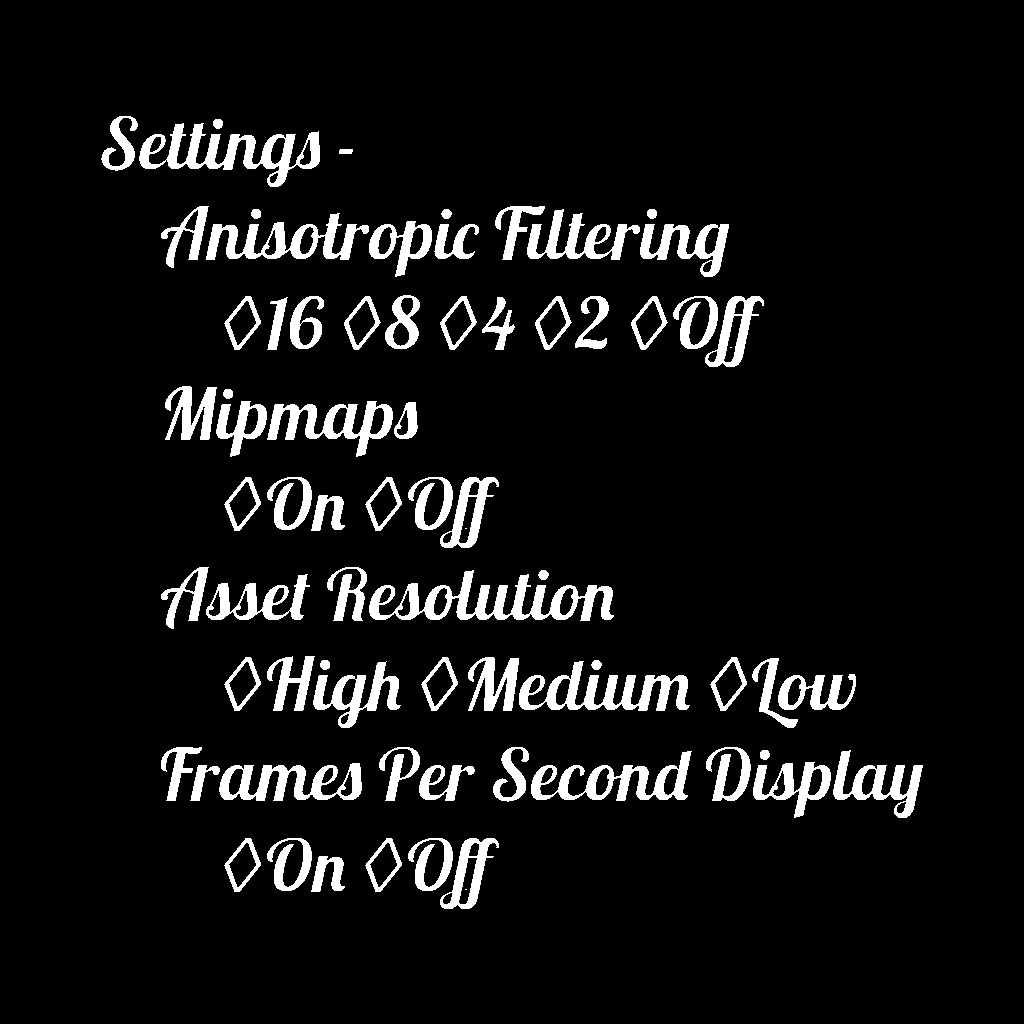
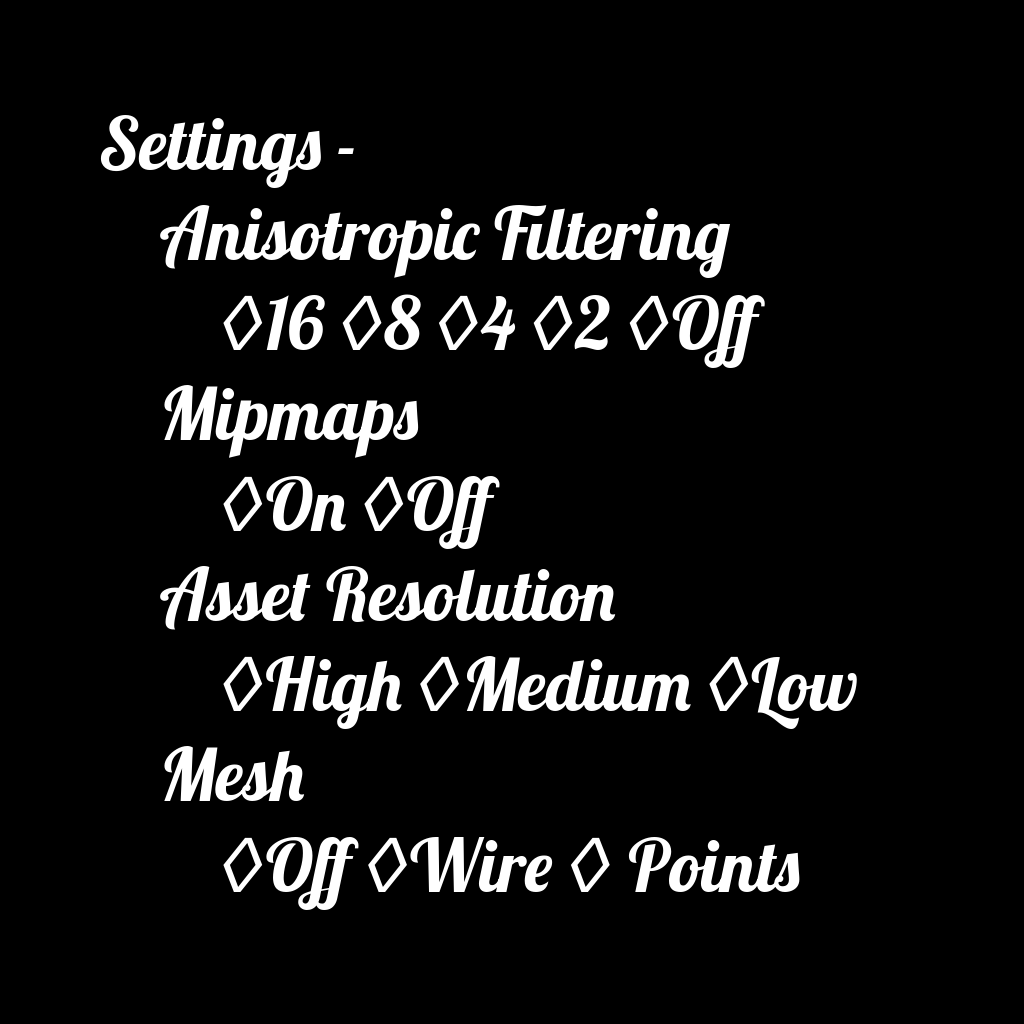
add water wireframe and point cloud display

diff --git a/src/world/ocean.rs b/src/world/ocean.rs
@@ -85,6 +85,108 @@ impl OceanBuffer {
 #[require(Transform, Visibility)]
 pub struct Ocean;
 
+use bevy::asset::RenderAssetUsages;
+use bevy::mesh::Indices;
+use bevy::mesh::PrimitiveTopology;
+
+/*
+// Works: Functionally equivalent, modifyable
+fn create_foo_mesh(x_units: f32, z_units: f32, subdivisions: u32) -> Mesh {
+    let grid_res = subdivisions + 2;
+    let total_vertices = (grid_res * grid_res) as usize;
+    let x_spacing = x_units / (grid_res as f32 - 1.0);
+    let z_spacing = z_units / (grid_res as f32 - 1.0);
+
+    let mut positions = Vec::with_capacity(total_vertices);
+    let mut indices = Vec::new();
+
+    // 1. Position mapping (foo = 144 vertices)
+    for i in 0..total_vertices as u32 {
+        let row = i / grid_res;
+        let col = i % grid_res;
+        let x = (col as f32 * x_spacing) - (x_units / 2.0);
+        let z = (row as f32 * z_spacing) - (z_units / 2.0);
+        positions.push([x, 0.0, z]);
+    }
+
+    // 2. Index mapping (Standard CCW winding)
+    for row in 0..grid_res - 1 {
+        for col in 0..grid_res - 1 {
+            let i = row * grid_res + col;
+            indices.extend_from_slice(&[i, i + grid_res, i + 1]);
+            indices.extend_from_slice(&[i + 1, i + grid_res, i + grid_res + 1]);
+        }
+    }
+
+    // 3. Bevy 0.18 Constructor
+    let mut mesh = Mesh::new(
+        PrimitiveTopology::TriangleList,
+        RenderAssetUsages::default() // Required for dynamic updates in 0.18
+    );
+
+    mesh.insert_attribute(Mesh::ATTRIBUTE_POSITION, positions);
+    mesh.insert_indices(Indices::U32(indices));
+    // Required for PBR and Solari lighting in 0.18
+    mesh.insert_attribute(Mesh::ATTRIBUTE_NORMAL, vec![[0.0, 1.0, 0.0]; total_vertices]);
+
+    mesh
+}
+*/
+
+/*
+// Works: proves we can accept the parameters and return the right value.
+fn create_foo_mesh(x_units: f32, z_units: f32, subdivisions: u32) -> Mesh {
+    Plane3d::default().mesh().size(x_units, z_units).subdivisions(subdivisions).build()
+}
+*/
+
+pub fn generate_wireframe_from_mesh(source_mesh: &Mesh) -> Mesh {
+    // 1. Create a new mesh using LineList topology
+    let mut wireframe_mesh = Mesh::new(PrimitiveTopology::LineList, RenderAssetUsages::default());
+
+    // 2. Copy the exact same vertex positions (No new generation needed)
+    if let Some(positions) = source_mesh.attribute(Mesh::ATTRIBUTE_POSITION) {
+        wireframe_mesh.insert_attribute(Mesh::ATTRIBUTE_POSITION, positions.clone());
+    }
+
+    // 3. Convert Triangle Triplets [0, 1, 2] into Line Pairs [0, 1, 1, 2, 2, 0]
+    if let Some(indices) = source_mesh.indices() {
+        let mut line_indices = Vec::new();
+
+        // This iterator works for both u16 and u32 indices
+        let mut iter = indices.iter();
+        while let (Some(a), Some(b), Some(c)) = (iter.next(), iter.next(), iter.next()) {
+            // Triangle edges: A-B, B-C, C-A
+            line_indices
+                .extend_from_slice(&[a as u32, b as u32, b as u32, c as u32, c as u32, a as u32]);
+        }
+
+        wireframe_mesh.insert_indices(Indices::U32(line_indices));
+    }
+
+    wireframe_mesh
+}
+
+pub fn generate_points_from_mesh(source_mesh: &Mesh) -> Mesh {
+    let mut point_mesh = Mesh::new(
+        PrimitiveTopology::PointList, // Tell the GPU: "One vertex = One point"
+        RenderAssetUsages::default(),
+    );
+
+    // Copy the positions exactly like we did for lines
+    if let Some(positions) = source_mesh.attribute(Mesh::ATTRIBUTE_POSITION) {
+        point_mesh.insert_attribute(Mesh::ATTRIBUTE_POSITION, positions.clone());
+    }
+
+    // Point lists don't technically need indices, but keeping them
+    // ensures the GPU knows which vertices to draw.
+    if let Some(indices) = source_mesh.indices() {
+        point_mesh.insert_indices(indices.clone());
+    }
+
+    point_mesh
+}
+
 pub fn spawn_ocean(
     commands: &mut Commands,
     meshes: &mut ResMut<Assets<Mesh>>,
@@ -95,6 +197,10 @@ pub fn spawn_ocean(
     commands.insert_resource(OceanBuffer::new(grid_size));
 
     let ocean_mesh = Plane3d::default().mesh().size(23.0, 23.0).subdivisions(10);
+    // let ocean_mesh = create_foo_mesh(23., 23., 10);
+
+    let wire_mesh = generate_wireframe_from_mesh(&ocean_mesh);
+    let point_mesh = generate_points_from_mesh(&ocean_mesh);
 
     let ocean_id = commands
         .spawn((
@@ -111,6 +217,34 @@ pub fn spawn_ocean(
         ))
         .id();
     et.ocean = Some(ocean_id);
+
+    let ocean_wire_id = commands
+        .spawn((
+            Ocean,
+            Mesh3d(meshes.add(wire_mesh)),
+            MeshMaterial3d(materials.add(StandardMaterial {
+                base_color: Color::WHITE,
+                unlit: false, // Makes it bright regardless of lighting
+                ..default()
+            })),
+            Visibility::Hidden,
+        ))
+        .id();
+    et.ocean_wire = Some(ocean_wire_id);
+
+    let ocean_point_id = commands
+        .spawn((
+            Ocean,
+            Mesh3d(meshes.add(point_mesh)),
+            MeshMaterial3d(materials.add(StandardMaterial {
+                base_color: Color::WHITE,
+                unlit: true, // Makes it bright regardless of lighting
+                ..default()
+            })),
+            Visibility::Hidden,
+        ))
+        .id();
+    et.ocean_point = Some(ocean_point_id);
 
     commands.entity(ocean_id).observe(
         |mut drag: On<Pointer<Drag>>, et: Res<EntityTable>, mut query: Query<&mut Transform>| {

diff --git a/src/ui.rs b/src/ui.rs
@@ -112,11 +112,11 @@ pub fn spawn_settings_ui(
             [AResHi, AResMed, AResLow]
         ),
         row!(
-            FPSDisplay,
+            Mesh,
             410.,
             455.,
-            [107., 177., 255.],
-            [FPSDispOn, FPSDispOff]
+            [107., 179., 280., 433.],
+            [MeshOff, MeshWire, MeshPoint]
         ),
     ];
 
@@ -124,7 +124,7 @@ pub fn spawn_settings_ui(
         Anisotropic,
         Mipmaps,
         AssetResolution,
-        FPSDisplay,
+        Mesh,
     }
     enum SetItem {
         An16,
@@ -137,8 +137,9 @@ pub fn spawn_settings_ui(
         AResHi,
         AResMed,
         AResLow,
-        FPSDispOn,
-        FPSDispOff,
+        MeshOff,
+        MeshWire,
+        MeshPoint,
     }
     struct SettingsCategory {
         cat: SetCatType,
@@ -196,6 +197,7 @@ pub fn spawn_settings_ui(
         move |mut click: On<Pointer<Click>>,
               et: Res<EntityTable>,
               stitched: Option<Res<StitchedRoundel>>,
+              mut commands: Commands,
               mut query: Query<(&mut Settings, &GlobalTransform)>,
               mut diamond_query: Query<&mut Transform, Without<Settings>>,
               mut images: ResMut<Assets<Image>>,
@@ -344,10 +346,37 @@ pub fn spawn_settings_ui(
                             }
                         }
                     }
-                    SetCatType::FPSDisplay => {
+                    SetCatType::Mesh => {
                         if let Ok(mut transform) = diamond_query.get_mut(et.set_fps.unwrap()) {
                             transform.translation =
                                 Vec3::new(to_local(x_start + 14.0), 0.01, to_local(y_start + 22.0));
+                        }
+                        match item {
+                            SetItem::MeshOff => {
+                                commands
+                                    .entity(et.ocean_wire.expect("No entity!"))
+                                    .insert(Visibility::Hidden);
+                                commands
+                                    .entity(et.ocean_point.expect("No entity!"))
+                                    .insert(Visibility::Hidden);
+                            }
+                            SetItem::MeshWire => {
+                                commands
+                                    .entity(et.ocean_wire.expect("No entity!"))
+                                    .insert(Visibility::Visible);
+                                commands
+                                    .entity(et.ocean_point.expect("No entity!"))
+                                    .insert(Visibility::Hidden);
+                            }
+                            SetItem::MeshPoint => {
+                                commands
+                                    .entity(et.ocean_wire.expect("No entity!"))
+                                    .insert(Visibility::Hidden);
+                                commands
+                                    .entity(et.ocean_point.expect("No entity!"))
+                                    .insert(Visibility::Visible);
+                            }
+                            _ => {}
                         }
                     }
                 }

diff --git a/src/lib.rs b/src/lib.rs
@@ -46,6 +46,8 @@ pub struct EntityTable {
     pub main_anchor: Option<Entity>,
     pub main_camera: Option<Entity>,
     pub ocean: Option<Entity>,
+    pub ocean_wire: Option<Entity>,
+    pub ocean_point: Option<Entity>,
 }
 
 pub struct EmbeddedAssetsPlugin;
